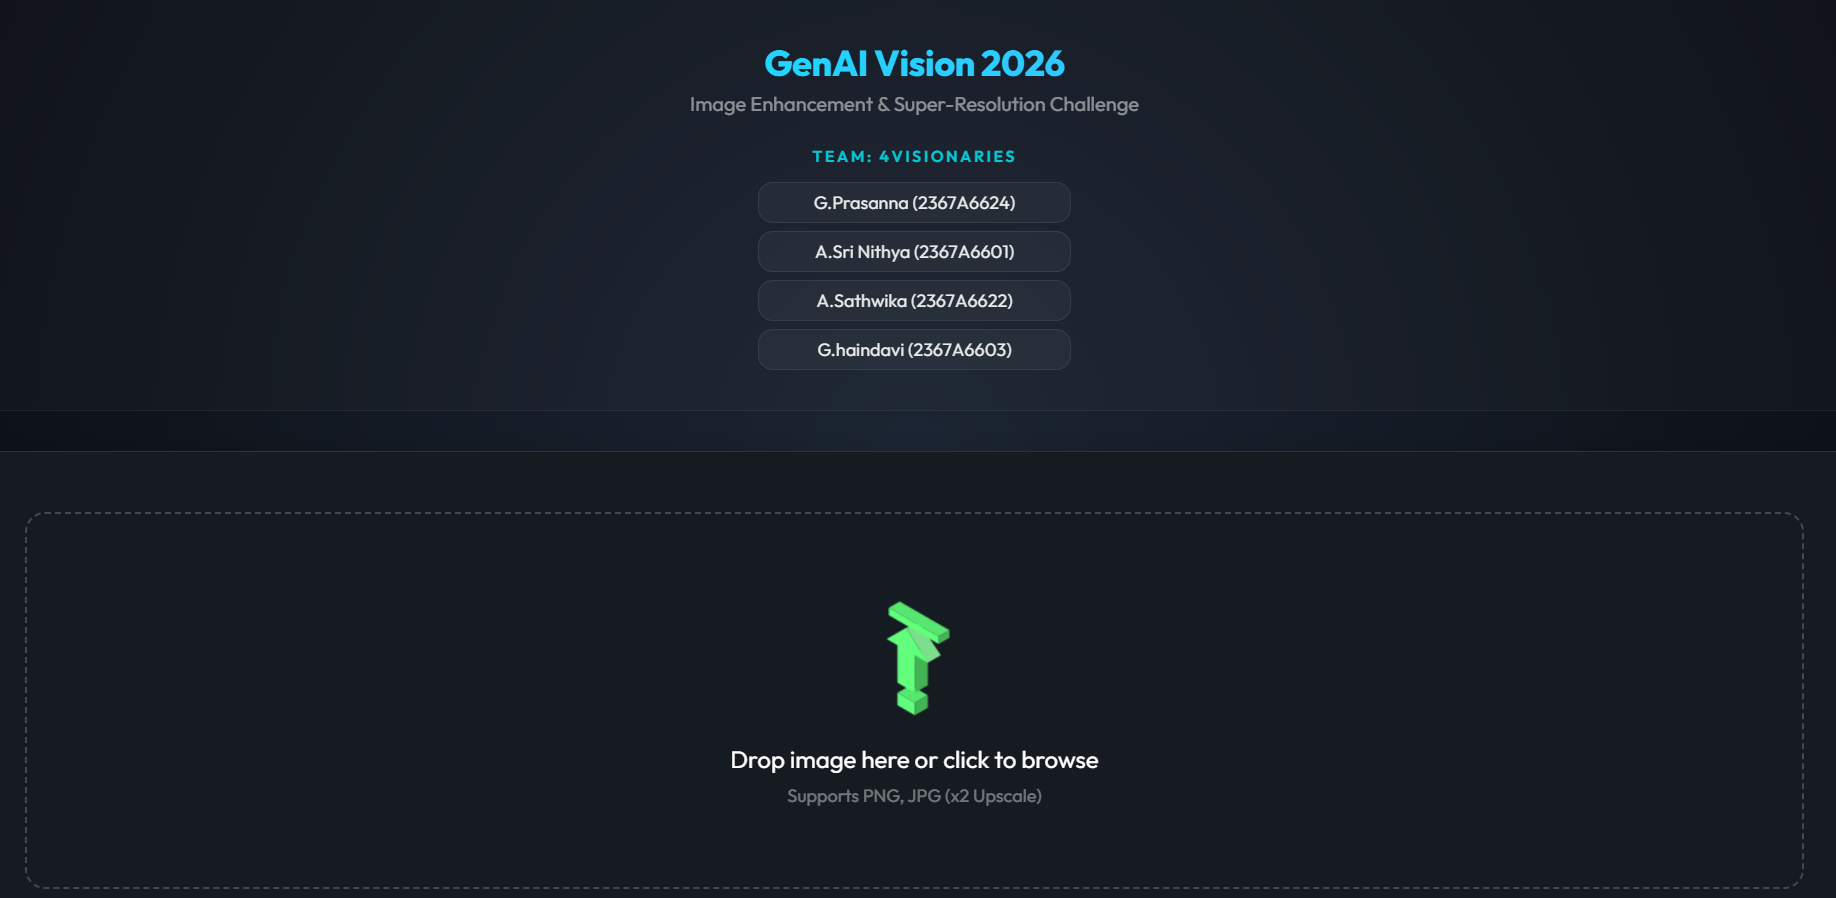
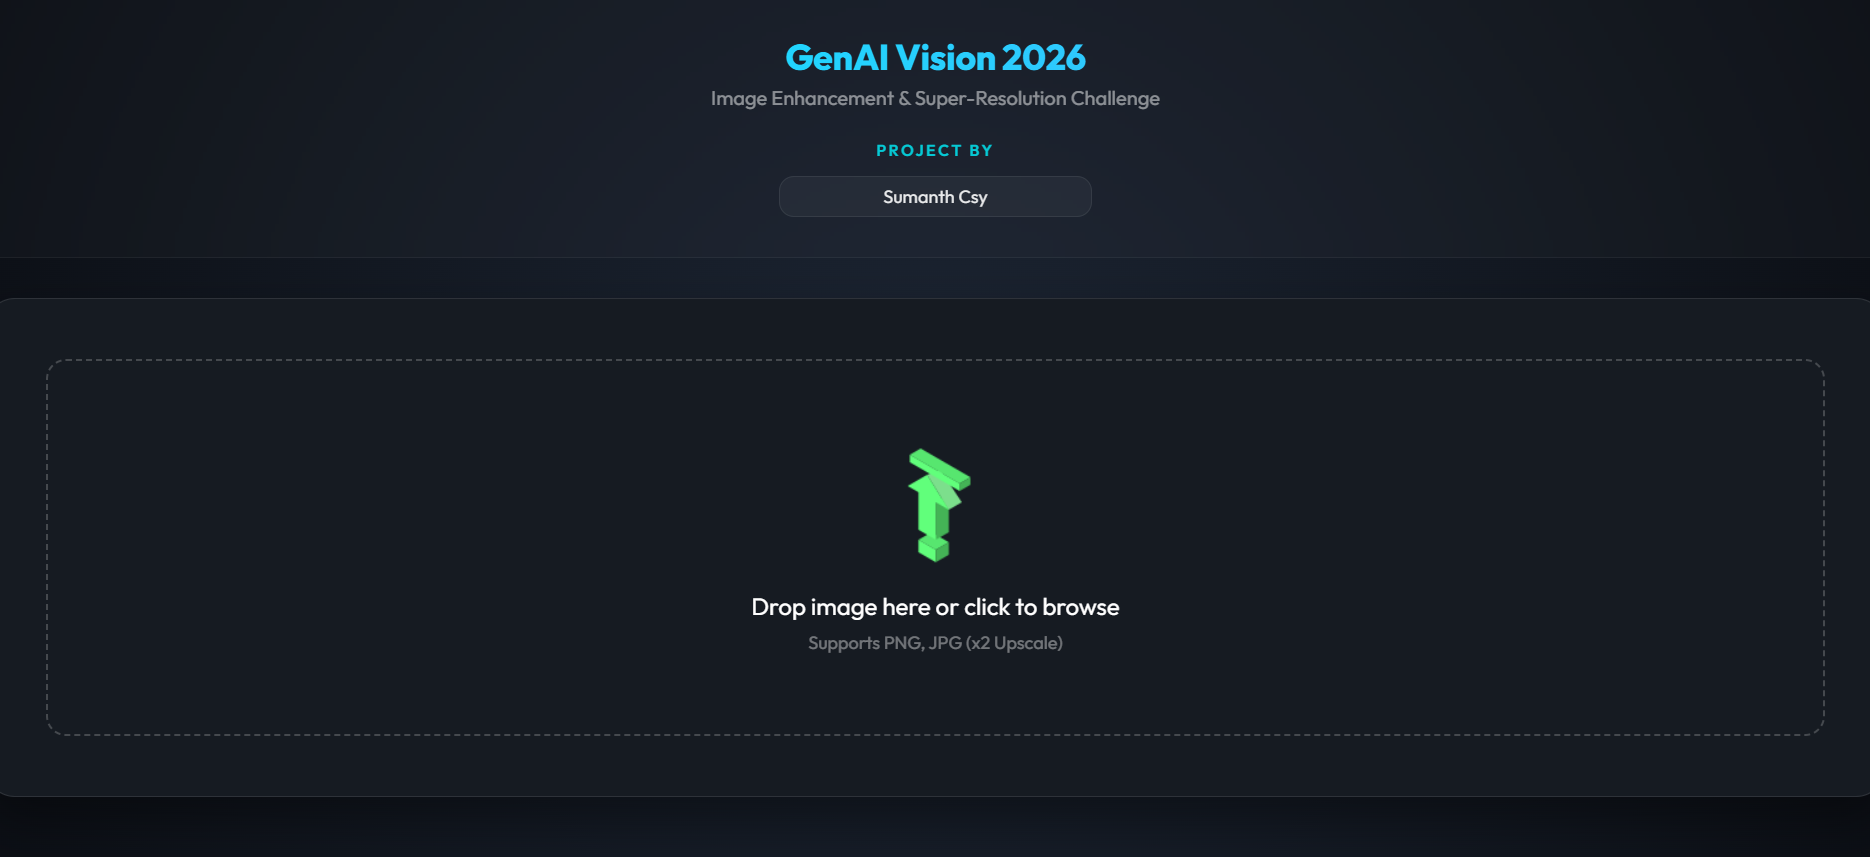
Final sync: Updated project names and refreshed screenshots

diff --git a/templates/index.html b/templates/index.html
@@ -323,12 +323,9 @@
             Challenge</p>
 
         <div class="team-section">
-            <div class="team-name">Team: 4Visionaries</div>
+            <div class="team-name">Project By</div>
             <div class="team-members">
                 <div class="member-item">Sumanth Csy</div>
-                <div class="member-item"></div>
-                <div class="member-item"></div>
-                <div class="member-item"></div>
             </div>
         </div>
     </header>

diff --git a/app.py b/app.py
@@ -135,4 +135,6 @@ def upload():
 
 if __name__ == '__main__':
     # Listen on all interfaces for network hosting
-    app.run(host='0.0.0.0', port=5000, debug=False)
+    # Debug=True helps reflect HTML changes instantly
+    app.config['TEMPLATES_AUTO_RELOAD'] = True
+    app.run(host='0.0.0.0', port=5000, debug=True)
